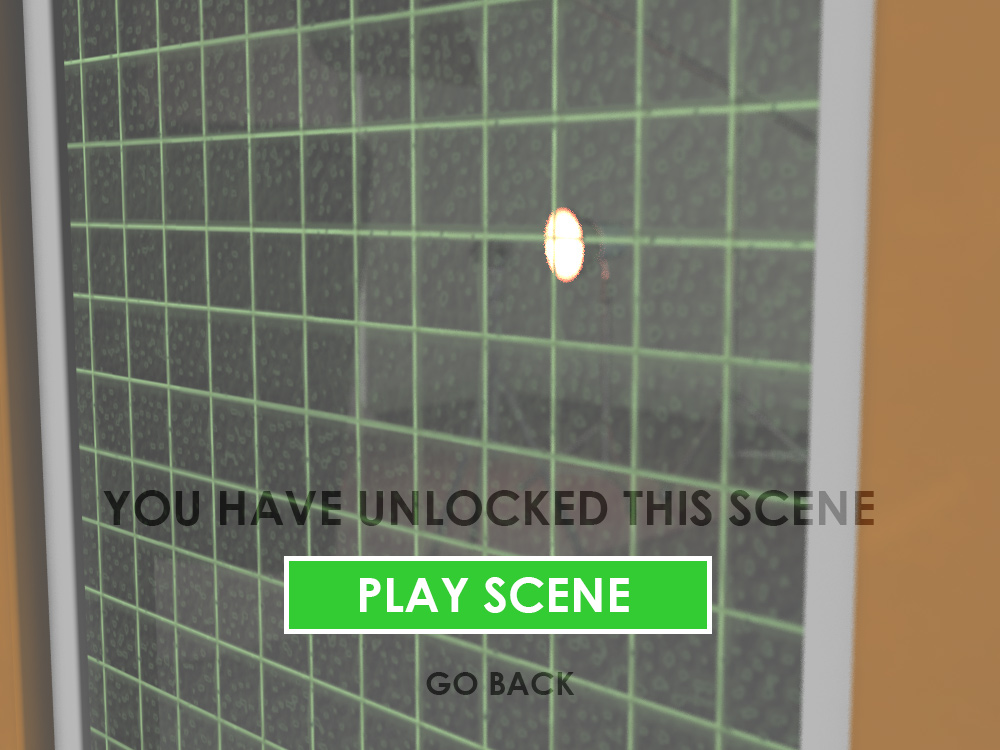
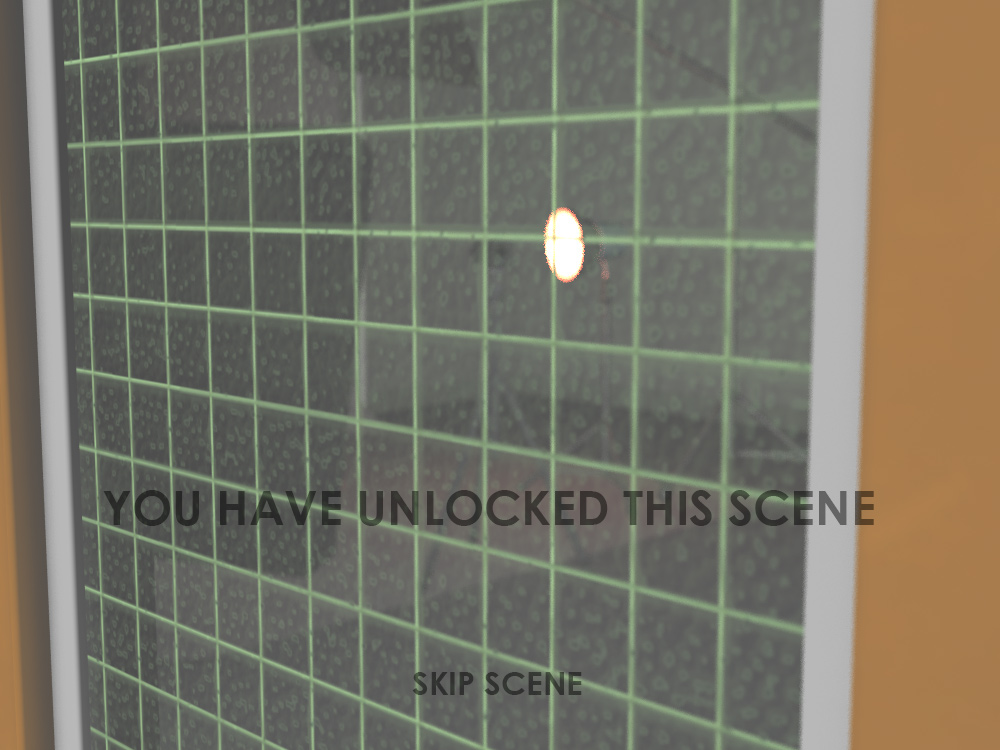
Updated payment screens around media74 (ch1) and exitannie23 (ch2)

Changed region(s): [[0.279, 0.736, 0.713, 0.8587], [0.403, 0.8893, 0.589, 0.9507], [0.806, 0.644, 0.868, 0.7053]]

diff --git a/static/chapter1/game/media84_locked.html b/static/chapter1/game/media84_locked.html
@@ -4,7 +4,7 @@
 
 <head>
 
-<title>The Academy: Introduction</title>
+<title>The Academy: Chapter One</title>
 
 <script language="javascript" src="_functions.js"></script>
 
@@ -49,9 +49,8 @@
       <table width="100" border="0" align="center" cellpadding="3">
 
       <tr>
-<td width="68" align="center" bgcolor="#CCCCCC"><script src="nataliascorecheck.js">
+<td width="68" align="center" bgcolor="#999999"><img src="buttonsetc/noscore.jpg">
 
-</script>
           </td>
 
       </tr>
@@ -63,7 +62,7 @@
 
           <tr>
 
-            <td height="250"><img src="buttonsetc/inv_natalia_bra.jpg" width="125" height="200" alt=""/></td>
+            <td height="250"></td>
           </tr>
     </table>
     
@@ -75,8 +74,8 @@
 
 <!--inventory end-->
 
-    <td width="1000" class="buybuttonImage"><img src="images/unlock/locked_grey.png" alt="" usemap="#Map" id="buybuttonImage"/>
-   <img src="images/media84_locked.jpg" id="buybutton" onclick="emitCheck('aMQRxfwfzkM735Sj3QVQ|25')">
+    <td width="1000" class="relativePosition"><img src="images/media84_locked.jpg" alt="" usemap="#Map" id="buybuttonImage"/>
+   <img src="buttonsetc/25credits.jpg" id="buybutton" onclick="emitCheck('aMQRxfwfzkM735Sj3QVQ|25')">
       <map name="Map" id="Map">
 
        
@@ -88,14 +87,14 @@
        <td width="1000" class="relativePosition">
        <img src="images/media84_unlocked.jpg" alt="" usemap="#Map"  id="availableButtonImage"/>
 
-      <map name="Map" id="Map">
+      <map name="Map_play" id="Map_play">
 
        
 		<area shape="rect" coords="380,650,620,720" href="media77.html" title="Go back" />
 		 
 	</map>
 
-    <a href="mediabonus1.html" ><img src="images/unlock/unlocked_button.jpg" id="availableButton"> </a>
+    <a href="mediabonus1.html" ><img src="buttonsetc/play_scene.jpg" id="availableButton"> </a>
       </td>
     
   

diff --git a/static/chapter2/game/exitannie23_locked.html b/static/chapter2/game/exitannie23_locked.html
@@ -4,7 +4,7 @@
 
 <head>
 
-<title>The Academy: Episode One</title>
+<title>The Academy: Chapter Two</title>
 
 <script language="javascript" src="_functions.js"></script>
 
@@ -76,7 +76,7 @@
 <!--inventory end-->
 
     <td width="1000" class="relativePosition"><img src="images/exitannie23_locked.jpg" alt="" usemap="#Map" id="buybuttonImage"/>
-   <img src="images/unlock/use_75.png" id="buybutton" onclick="emitCheck('5GvSh36NPJVmgz0LKXeX|75')">
+   <img src="buttonsetc/75credits.jpg" id="buybutton" onclick="emitCheck('5GvSh36NPJVmgz0LKXeX|75')">
       <map name="Map" id="Map">
 
        
@@ -86,7 +86,7 @@
    
       </td>
        <td width="1000" class="relativePosition">
-       <img src="images/unlock/annie_unlocked.png" alt="" usemap="#Map"  id="availableButtonImage"/>
+       <img src="images/exitannie23_unlocked.jpg" alt="" usemap="#Map"  id="availableButtonImage"/>
 
       <map name="Map" id="Map">
 
@@ -95,7 +95,7 @@
 		 
 	</map>
 
-    <a href="anniebonus1.html" ><img src="images/unlock/unlocked_button.jpg" id="availableButton"> </a>
+    <a href="anniebonus1.html" ><img src="buttonsetc/play_scene.jpg" id="availableButton"> </a>
       </td>
     
     </tr>

diff --git a/static/chapter2/game/mediajodie60_locked.html b/static/chapter2/game/mediajodie60_locked.html
@@ -76,7 +76,7 @@
 <!--inventory end-->
 
     <td width="1000" class="relativePosition"><img src="images/mediajodie60_locked.jpg" alt="" usemap="#Map" id="buybuttonImage"/>
-   <img src="buttonsetc/use_50.jpg" id="buybutton" onclick="emitCheck('VVJ5mVW6zM0f3fygZzHB|50')">
+   <img src="buttonsetc/50credits.jpg" id="buybutton" onclick="emitCheck('VVJ5mVW6zM0f3fygZzHB|50')">
       <map name="Map" id="Map">
 
        
